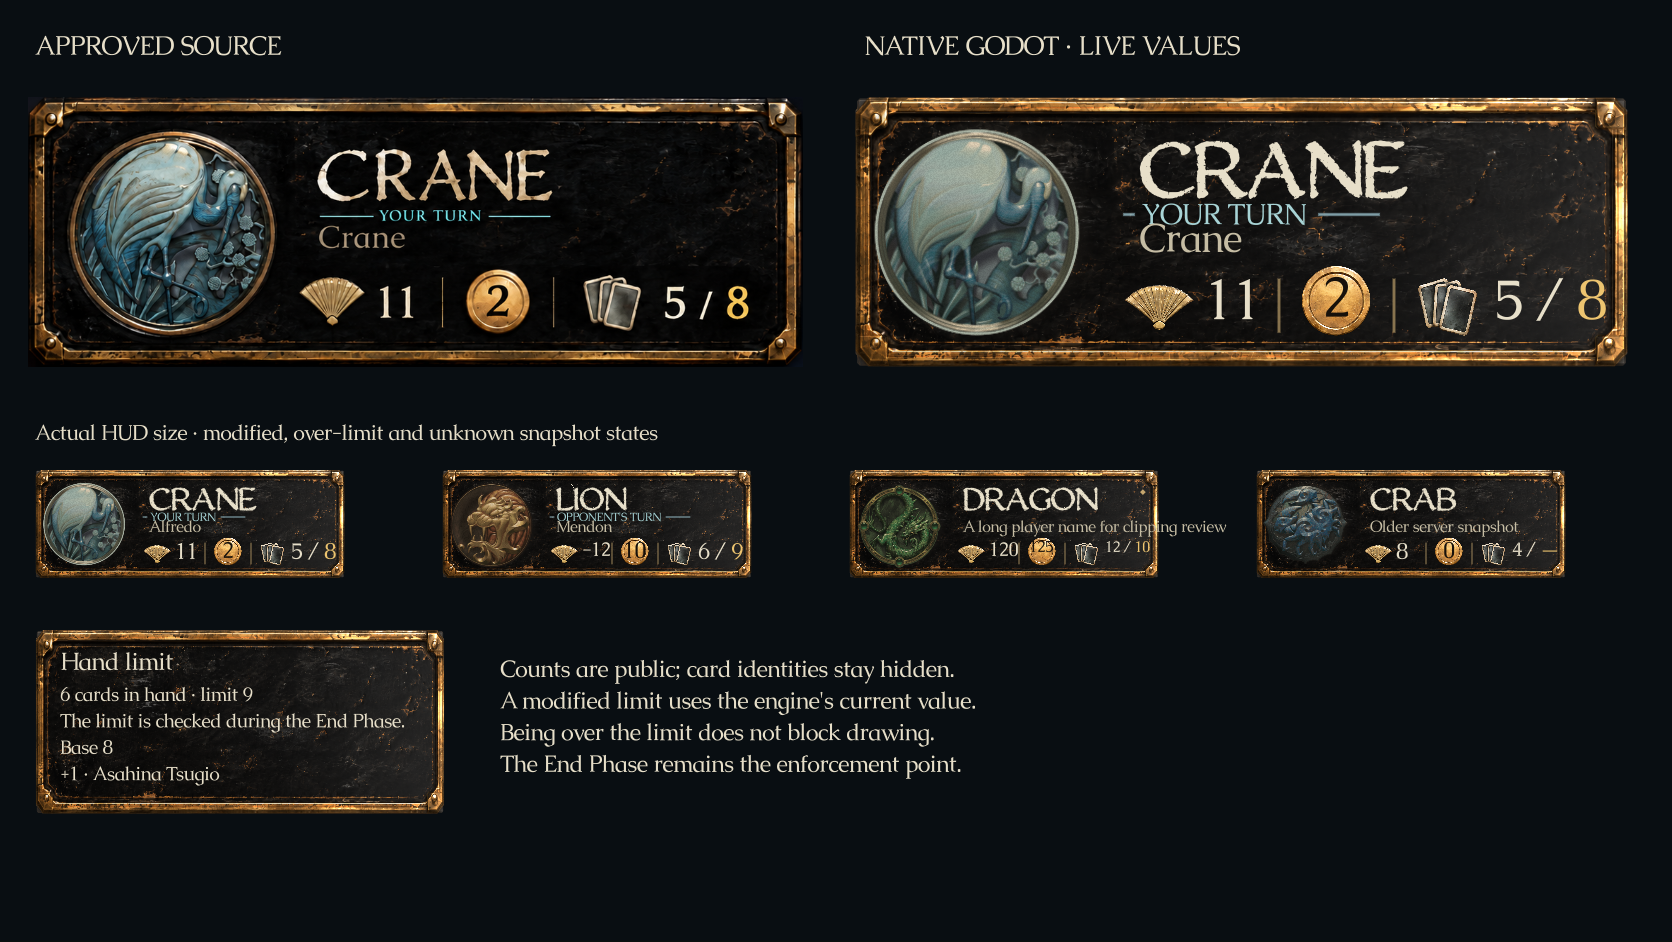
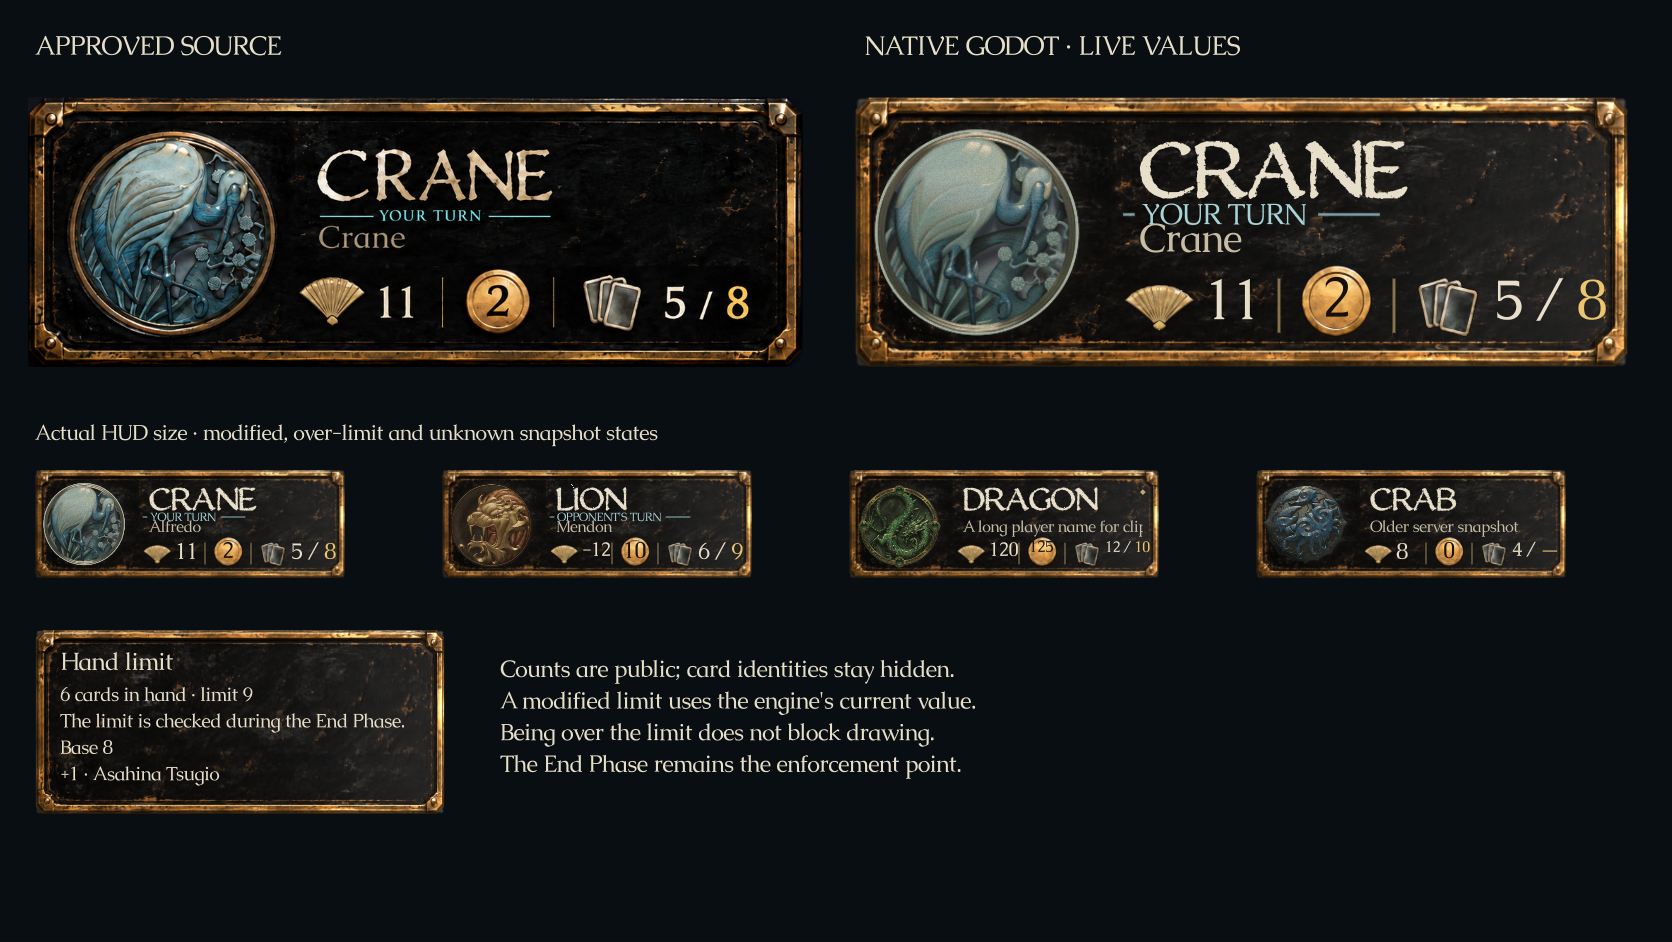
Refine placard native fidelity and publish source comparison with Home concepts

diff --git a/docs/screenshots/clan-placard/index.html b/docs/screenshots/clan-placard/index.html
@@ -1,0 +1,1 @@
+<!doctype html><html lang="en"><meta charset="utf-8"><meta name="viewport" content="width=device-width,initial-scale=1"><title>Placard A and Imperial Favor review</title><style>body{margin:0;background:#090e12;color:#e7dfc9;font:18px Georgia,serif}main{max-width:1600px;margin:auto;padding:28px}h1,h2{font-weight:400}p{line-height:1.6;max-width:1050px}img{width:100%;height:auto;display:block;border:1px solid #8d7345}section{margin:35px 0 55px}a{color:#edc46f}.grid{display:grid;grid-template-columns:1fr 1fr;gap:20px}nav{display:flex;gap:24px;flex-wrap:wrap}.note{color:#aaa395;font-size:15px}@media(max-width:850px){.grid{grid-template-columns:1fr}}</style><main><h1>Placard A · native implementation</h1><nav><a href="#comparison">Source comparison</a><a href="#playable">In game</a><a href="#home">New Imperial Favor concepts</a></nav><p>Meshy PBR material, measured Blender geometry, approved artwork projection and a native Godot bake. Honor, available Gold and hand count / limit remain live. Hover the hand tracker for its current limit and public modifiers.</p><section id="comparison"><h2>Approved source beside the actual Godot renderer</h2><img src="source-native.png" alt="Approved Placard A beside native Godot plaque and edge states"><p class="note">Actual WeatheredQuill/Caudex typography and the existing clan emblems remain in use. This is a fidelity comparison, not a pixel-difference claim. The normal-size row includes modified, over-limit and unknown-limit snapshots.</p></section><section id="playable"><h2>Current room · playable presentation</h2><img src="playable.png" alt="Live placards in current room"><p class="note">Integrated preview includes the existing room, menu and sidebar work. The placard PR remains separate.</p><div class="grid"><div><h2>Smaller window · 1440 × 900</h2><img src="compact.png" alt="Compact window"></div><div><h2>Wide window · 2560 × 1080</h2><img src="wide.png" alt="Wide window"></div></div></section><section id="home"><h2>Imperial Favor · new concepts for approval</h2><p>Favor receives a distinct ivory-white border with Japanese ornament. Its reminder is separate from actual persistent cards and from the small Suspicions effect reminder. These concepts have not been implemented.</p><h2>D · White lacquer</h2><p>A restrained ivory frame with pearl and chrysanthemum details.</p><a href="home-d.png"><img src="home-d.png" alt="D White lacquer"></a><h2>E · Imperial silk</h2><p>An embroidered white court scroll, with supporting cards below.</p><a href="home-e.png"><img src="home-e.png" alt="E Imperial silk"></a><h2>F · Noble crest</h2><p>A stronger ceremonial silhouette with sculpted white cloud flourishes and a central chrysanthemum crest.</p><a href="home-f.png"><img src="home-f.png" alt="F Noble crest"></a><p class="note">Imagegen concepts are illustrative; original scans, legal actions and authoritative state will be used in implementation. Only occupied entries appear. Ordinary Events are not automatically persistent.</p></section></main>

diff --git a/src/L5R.Client/ClanPlaque.cs b/src/L5R.Client/ClanPlaque.cs
@@ -148,8 +148,9 @@ public partial class ClanPlaque : Control
         var shell = new Control { CustomMinimumSize = design * scale, MouseFilter = MouseFilterEnum.Ignore };
         var panel = new Control { Size = design, Scale = Vector2.One * scale, MouseFilter = MouseFilterEnum.Ignore };
         shell.AddChild(panel);
-        panel.AddChild(new TextureRect { Texture = FrameTexture, ExpandMode = TextureRect.ExpandModeEnum.IgnoreSize, Size = design,
-            MouseFilter = MouseFilterEnum.Ignore });
+        panel.AddChild(new NinePatchRect { Texture = FrameTexture, PatchMarginLeft = 96, PatchMarginRight = 96,
+            PatchMarginTop = 96, PatchMarginBottom = 96, Scale = Vector2.One * .25f, Size = design * 4,
+            MouseFilter = MouseFilterEnum.Ignore, TextureFilter = TextureFilterEnum.LinearWithMipmaps });
         var title = Palette.Text(heading, 23, Palette.Paper); title.AddThemeFontOverride("font", BodyFace);
         title.Position = new Vector2(25, 17); panel.AddChild(title);
         var copy = Palette.Wrapped(string.Join("\n",lines), 18, Palette.Paper); copy.AddThemeFontOverride("font", BodyFace);

diff --git a/tools/art/placard_refine_render.py b/tools/art/placard_refine_render.py
@@ -35,5 +35,6 @@ s=bpy.context.scene;s.view_settings.view_transform='Standard';s.view_settings.lo
 s.camera.data.ortho_scale=2.91
 s.render.resolution_x=1740;s.render.resolution_y=600;s.cycles.samples=64
 s.render.filepath=str(p/'refined-front.png')
+bpy.ops.file.pack_all()
 bpy.ops.wm.save_as_mainfile(filepath=str(p/'production-frame.blend'))
 bpy.ops.render.render(write_still=True)

diff --git a/assets/ui/clan-placard/README.md b/assets/ui/clan-placard/README.md
@@ -6,4 +6,23 @@ Issue: https://github.com/alfredoh7/l5r-emperor/issues/243
 
 Production scope: preserve the approved proportions and texture, use Meshy material production on measured Blender geometry, render the frame for native Godot, and keep all labels and counts live. Hand limit comes from the existing engine calculation. Persistent Home concepts are separate and are not implemented by this change.
 
-Status: production in progress; native comparison and validation pending.
+## Production and fidelity
+
+`blank-reference.png` was derived with built-in imagegen from the approved panel. Measured Blender geometry was sent to Meshy Retexture (4K PBR), task `01a0a92a-9a18-7286-b6fa-e0bc80c48343`. The service reported **10 credits**. The first material pass was too grey, so the Blender finish restores the approved face artwork by projection while retaining the generated normal/roughness detail and 12% of its base color. The native HUD uses the resulting orthographic PNG; it does not run a 3D viewport or need Meshy at launch.
+
+The hand/fan/blank-coin atlas is an imagegen derivative; digits are live text. The existing clan medallions remain in use. Headings use the actual WeatheredQuill file and body/numerals use Caudex, with local MSDF copies for crisp scaling. These fonts and existing emblems intentionally differ from the generated illustrative lettering/emblem; the comparison is not a claim of pixel equivalence across the entire panel.
+
+The 310 × 108 logical-pixel plaque preserves the shallow source proportions and makes room for three readable values. The phase track moves 44 logical pixels right to maintain clearance. The artwork has mipmaps, and tooltip frames preserve their corners through nine-patch scaling. `HandLimit` is optional for old snapshots: those display `—` rather than invent a limit.
+
+## Editable sources
+
+- [Private source archive](https://github.com/alfredoh7/l5r-emperor/releases/tag/art-source-placard-a-20260916): original Meshy GLB, packed production `.blend`, derived reference and sanitized receipt. This is not a playable release.
+- `measured-frame.blend` and `tools/art/build_clan_placard.py`: measured geometry and camera.
+- `tools/art/placard_render_meshy.py`, then `tools/art/placard_refine_render.py`: orthographic bake and fidelity correction. Restore the original GLB to `artifacts/meshy/placard-a-v1/download/model.glb` before running them with Blender.
+- `provenance.json`: hashes, options and reported cost. `imagegen-prompts.json`: exact generation and refinement prompts.
+
+## Review and validation
+
+See `docs/screenshots/clan-placard/index.html` for the source/native comparison, actual integrated-room captures and three **unapproved** white Imperial Favor concepts. No persistent Home area is implemented here. Generated Home card lettering and inset arrangements remain illustrative; implementation must use the real scans and engine state.
+
+`bash tools/check-clan-placard.sh` rebuilds the native comparison and checks clan inspection input, keyboard focus, modified limits, over-limit presentation and old snapshots. `bash tools/check.sh --skip-client` covers the shared engine/view contract and existing gameplay suites. Integrated room evidence was captured in the separate `codex/243-hand-placard-preview` branch so this PR does not absorb unrelated room/menu work. Windows CI compilation is not native Windows graphical acceptance.
